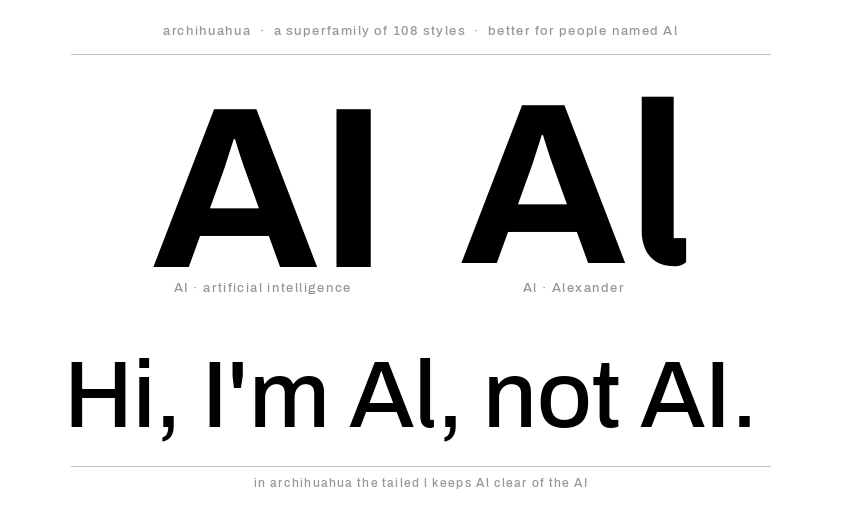
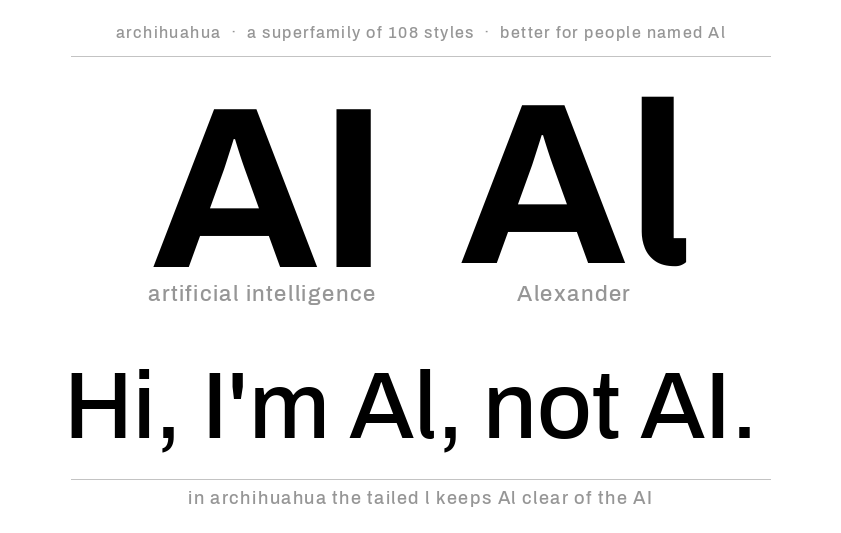
Enlarge specimen 0 labels

diff --git a/scripts/specimens.py b/scripts/specimens.py
@@ -200,15 +200,17 @@ def specimen0():
     group = ai.width + gap + al.width
     sent, _ = tight("Hi, I'm Al, not AI.", "-Medium", target_w=CONTENT)
 
-    top, lab_gap, mid_gap, bottom = 96, 16, 64, 78
-    la, lb = tracked("AI · artificial intelligence"), tracked("Al · Alexander")
+    # this sheet is shown small in the README (≈half width), so its small text
+    # is sized up to stay legible there.
+    top, lab_gap, mid_gap, bottom = 96, 18, 64, 80
+    la, lb = tracked("artificial intelligence", 22), tracked("Alexander", 22)
     hero_h = max(ai.height, al.height)
     H = top + hero_h + lab_gap + max(la.height, lb.height) + mid_gap + sent.height + bottom
 
     c = Image.new("L", (W, H), BG)
     d = ImageDraw.Draw(c)
-    ht = tracked(title, 13)
-    c.paste(ht, ((W - ht.width) // 2, 26)); d.line(((ML, 54), (W - ML, 54)), fill=RULE)
+    ht = tracked(title, 16)
+    c.paste(ht, ((W - ht.width) // 2, 26)); d.line(((ML, 56), (W - ML, 56)), fill=RULE)
 
     gx = (W - group) // 2
     base = top + hero_h
@@ -220,7 +222,7 @@ def specimen0():
 
     sy = base + lab_gap + max(la.height, lb.height) + mid_gap
     c.paste(sent, (ML, sy))
-    ft = tracked("in archihuahua the tailed l keeps Al clear of the AI", 12)
+    ft = tracked("in archihuahua the tailed l keeps Al clear of the AI", 18)
     c.paste(ft, ((W - ft.width) // 2, H - 42)); d.line(((ML, H - 54), (W - ML, H - 54)), fill=RULE)
     return c
 

diff --git a/README.md b/README.md
@@ -1,10 +1,12 @@
-![AI versus Al — the tailed l tells them apart.](./Archihuahua-0.png "better for people named Al")
-
 # Archihuahua
 
 *SIL Open Font License, 1.1*
 
 Archihuahua is a fork of [Archivo](https://github.com/Omnibus-Type/Archivo) by Omnibus-Type, with a little foot added to the lowercase **l** (the *l* has its dogs out 🐾).
+
+<p align="center">
+  <img src="./Archihuahua-0.png" width="420" alt="AI versus Al — the tailed l tells them apart" title="better for people named Al">
+</p>
 
 ![Archihuahua weights, Thin to Black.](./Archihuahua-1.png "Archihuahua — weights")
 ![Archihuahua widths, ExtraCondensed to Expanded.](./Archihuahua-2.png "Archihuahua — widths")
